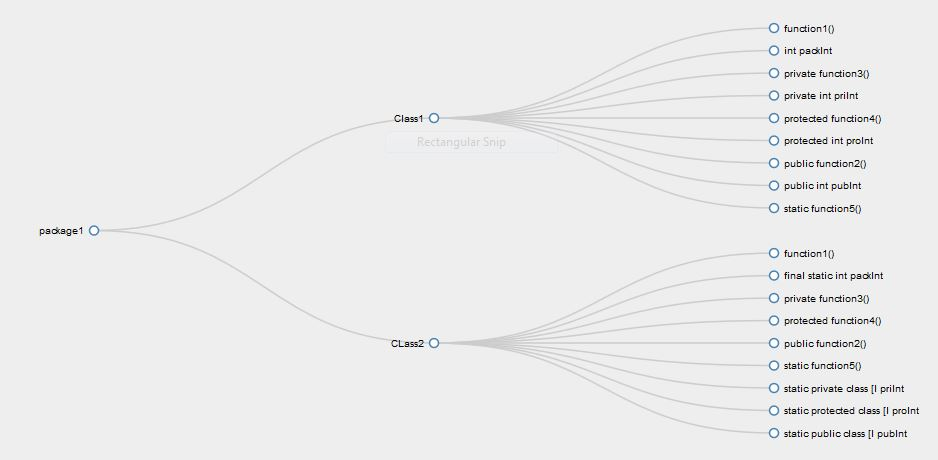
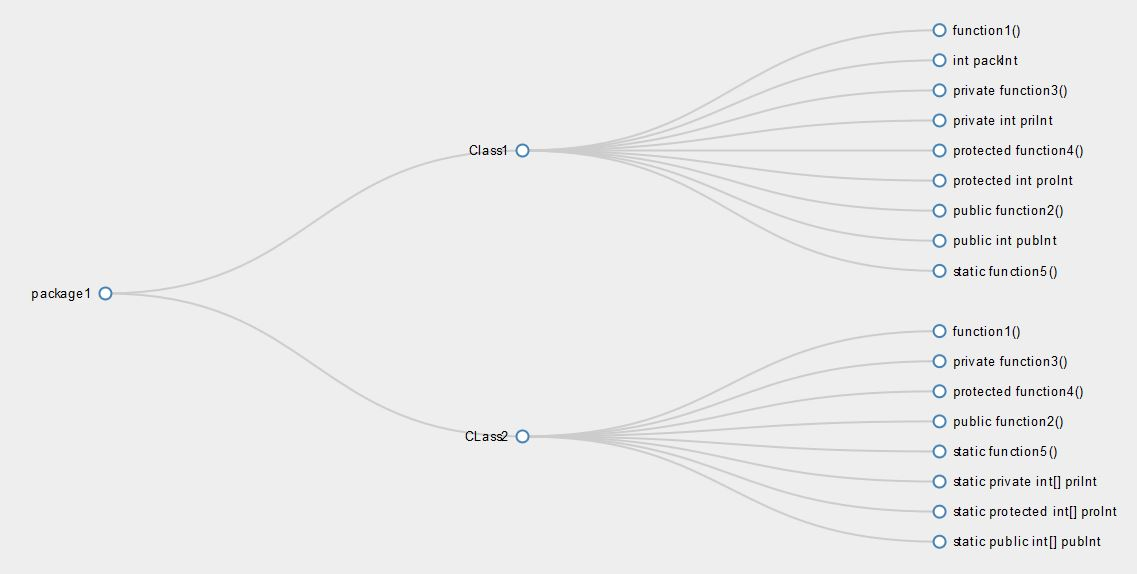
Fields type (arrays) canonical names.

diff --git a/jp2tg/src/MainClass.java b/jp2tg/src/MainClass.java
@@ -11,24 +11,9 @@ import java.util.HashMap;
 public class MainClass 
 {
 	// http://docs.oracle.com/javase/7/docs/api/constant-values.html
-	static HashMap<Integer, String> modifiers = new HashMap<Integer, String>();
-	static String modifierArray[] = {"strict","abstract","interface","native","transient","volatile","synchronized","final","static","protected","private","public"};
-	
-	static void init()
-	{
-		modifiers.put(1024,"abstract");	
-		modifiers.put(16,"final");	
-		modifiers.put(512,"interface");		
-		modifiers.put(256,"native");
-		modifiers.put(2,"private");	
-		modifiers.put(4,"protected");		
-		modifiers.put(1,"public");	
-		modifiers.put(8,"static");		
-		modifiers.put(2048,"strict");		
-		modifiers.put(32,"synchronized");	
-		modifiers.put(128,"transient");	
-		modifiers.put(64,"volatile");
-	}
+	static String modifierArray[] = {"strict","abstract","interface","native",
+									 "transient","volatile","synchronized",
+									 "final","static","protected","private","public"};
 	
 	static String getStrModifier(int modifierNum)
 	{
@@ -43,7 +28,7 @@ public class MainClass
 		String modiferStr = "";
 		for(int i = 0; i < numBits; i++)
 			if( modifierBin.charAt(i) == '1' )
-				modiferStr += modifierArray[offsetBin + i ] + " ";
+				modiferStr += modifierArray[offsetBin + i] + " ";
 
 		return modiferStr;
 	}
@@ -67,69 +52,67 @@ public class MainClass
 	}
 	
 	public static void main(String[] args) throws IOException
-	{
-		init();
-		
-	    	String projectPath = "C:/Github/javapackage2treegraph/";
-	    	String folderPath = "jp2tg/src/";
-	    	String[] packageList = {"package1"};
-	    			
-	    	for(int p = 0; p < packageList.length; p++)
-	    	{
-	        	File file = new File( projectPath + packageList[p] + ".txt");
-	        	
-	    		// if file doesnt exists, then create it
-	    		if (!file.exists()) {
-	    			file.createNewFile();
-	    		}
+	{	
+    	String projectPath = "C:/Github/javapackage2treegraph/";
+    	String folderPath = "jp2tg/src/";
+    	String[] packageList = {"package1"};
+    			
+    	for(int p = 0; p < packageList.length; p++)
+    	{
+        	File file = new File( projectPath + packageList[p] + ".txt");
+        	
+    		// if file doesnt exists, then create it
+    		if (!file.exists()) {
+    			file.createNewFile();
+    		}
 
-	    		FileWriter fw = new FileWriter(file.getAbsoluteFile());
-	    		BufferedWriter bw = new BufferedWriter(fw);
-	    		
-	    		bw.write( packageList[p] + "\n" );
-		    	
-		    	Vector<String> packClass = getClassInPackage( projectPath + folderPath + packageList[p] );
+    		FileWriter fw = new FileWriter(file.getAbsoluteFile());
+    		BufferedWriter bw = new BufferedWriter(fw);
+    		
+    		bw.write( packageList[p] + "\n" );
+	    	
+	    	Vector<String> packClass = getClassInPackage( projectPath + folderPath + packageList[p] );
+			
+	    	for (int i = 0; i < packClass.size(); i++) 
+	    	{    		
+		    	Class c = null;
+				try {
+					String classPath = packageList[p] + "." + packClass.get(i);
+					c = Class.forName( classPath );
+				} catch (ClassNotFoundException e) {
+					// TODO Auto-generated catch block
+					e.printStackTrace();
+				}
 				
-		    	for (int i = 1; i < packClass.size(); i++) 
-		    	{    		
-			    	Class c = null;
-					try {
-						String classPath = packageList[p] + "." + packClass.get(i);
-						c = Class.forName( classPath );
-					} catch (ClassNotFoundException e) {
-						// TODO Auto-generated catch block
-						e.printStackTrace();
-					}
-					
-					if( c == null )
-						continue;
-					
-			    	Field[] allFields = c.getDeclaredFields();
-			        for (Field field : allFields) 
-			        {
-			        	String className = field.getDeclaringClass().toString();
-			        	String[] tokens = className.split("\\.");
-			        	className = tokens[tokens.length-1];
-					        	
-			        	bw.write( className + ',' +
-			        			  field.getName().toString() + ',' +
-			        			  field.getType().toString() + ',' +
-			        			  getStrModifier(field.getModifiers()) + "\n");
-			        }
-		
-			        Member[] allMembers = c.getDeclaredMethods();
-			        for (Member member : allMembers) 
-			        {
-			        	String memberName = member.getDeclaringClass().toString();
-			        	String[] tokens = memberName.split("\\.");
-			        	memberName = tokens[tokens.length-1];
-			        	
-			        	bw.write( memberName + "," +
-			        			  member.getName().toString() + "()," +
-			        			  getStrModifier(member.getModifiers()) + "\n");
-			        }
-		    	}
-		    	bw.close();
+				if( c == null )
+					continue;
+				
+		    	Field[] allFields = c.getDeclaredFields();
+		        for (Field field : allFields) 
+		        {
+		        	String className = field.getDeclaringClass().toString();
+		        	String[] tokens = className.split("\\.");
+		        	className = tokens[tokens.length-1];
+				        	
+		        	bw.write( className + ',' +
+		        			  field.getName() + ',' +
+		        			  field.getType().getCanonicalName() + ',' +
+		        			  getStrModifier(field.getModifiers()) + "\n");
+		        }
+	
+		        Member[] allMembers = c.getDeclaredMethods();
+		        for (Member member : allMembers) 
+		        {
+		        	String memberName = member.getDeclaringClass().toString();
+		        	String[] tokens = memberName.split("\\.");
+		        	memberName = tokens[tokens.length-1];
+		        	
+		        	bw.write( memberName + "," +
+		        			  member.getName() + "()," +
+		        			  getStrModifier(member.getModifiers()) + "\n");
+		        }
 	    	}
-	    }
+	    	bw.close();
+    	}
+    }
 }
